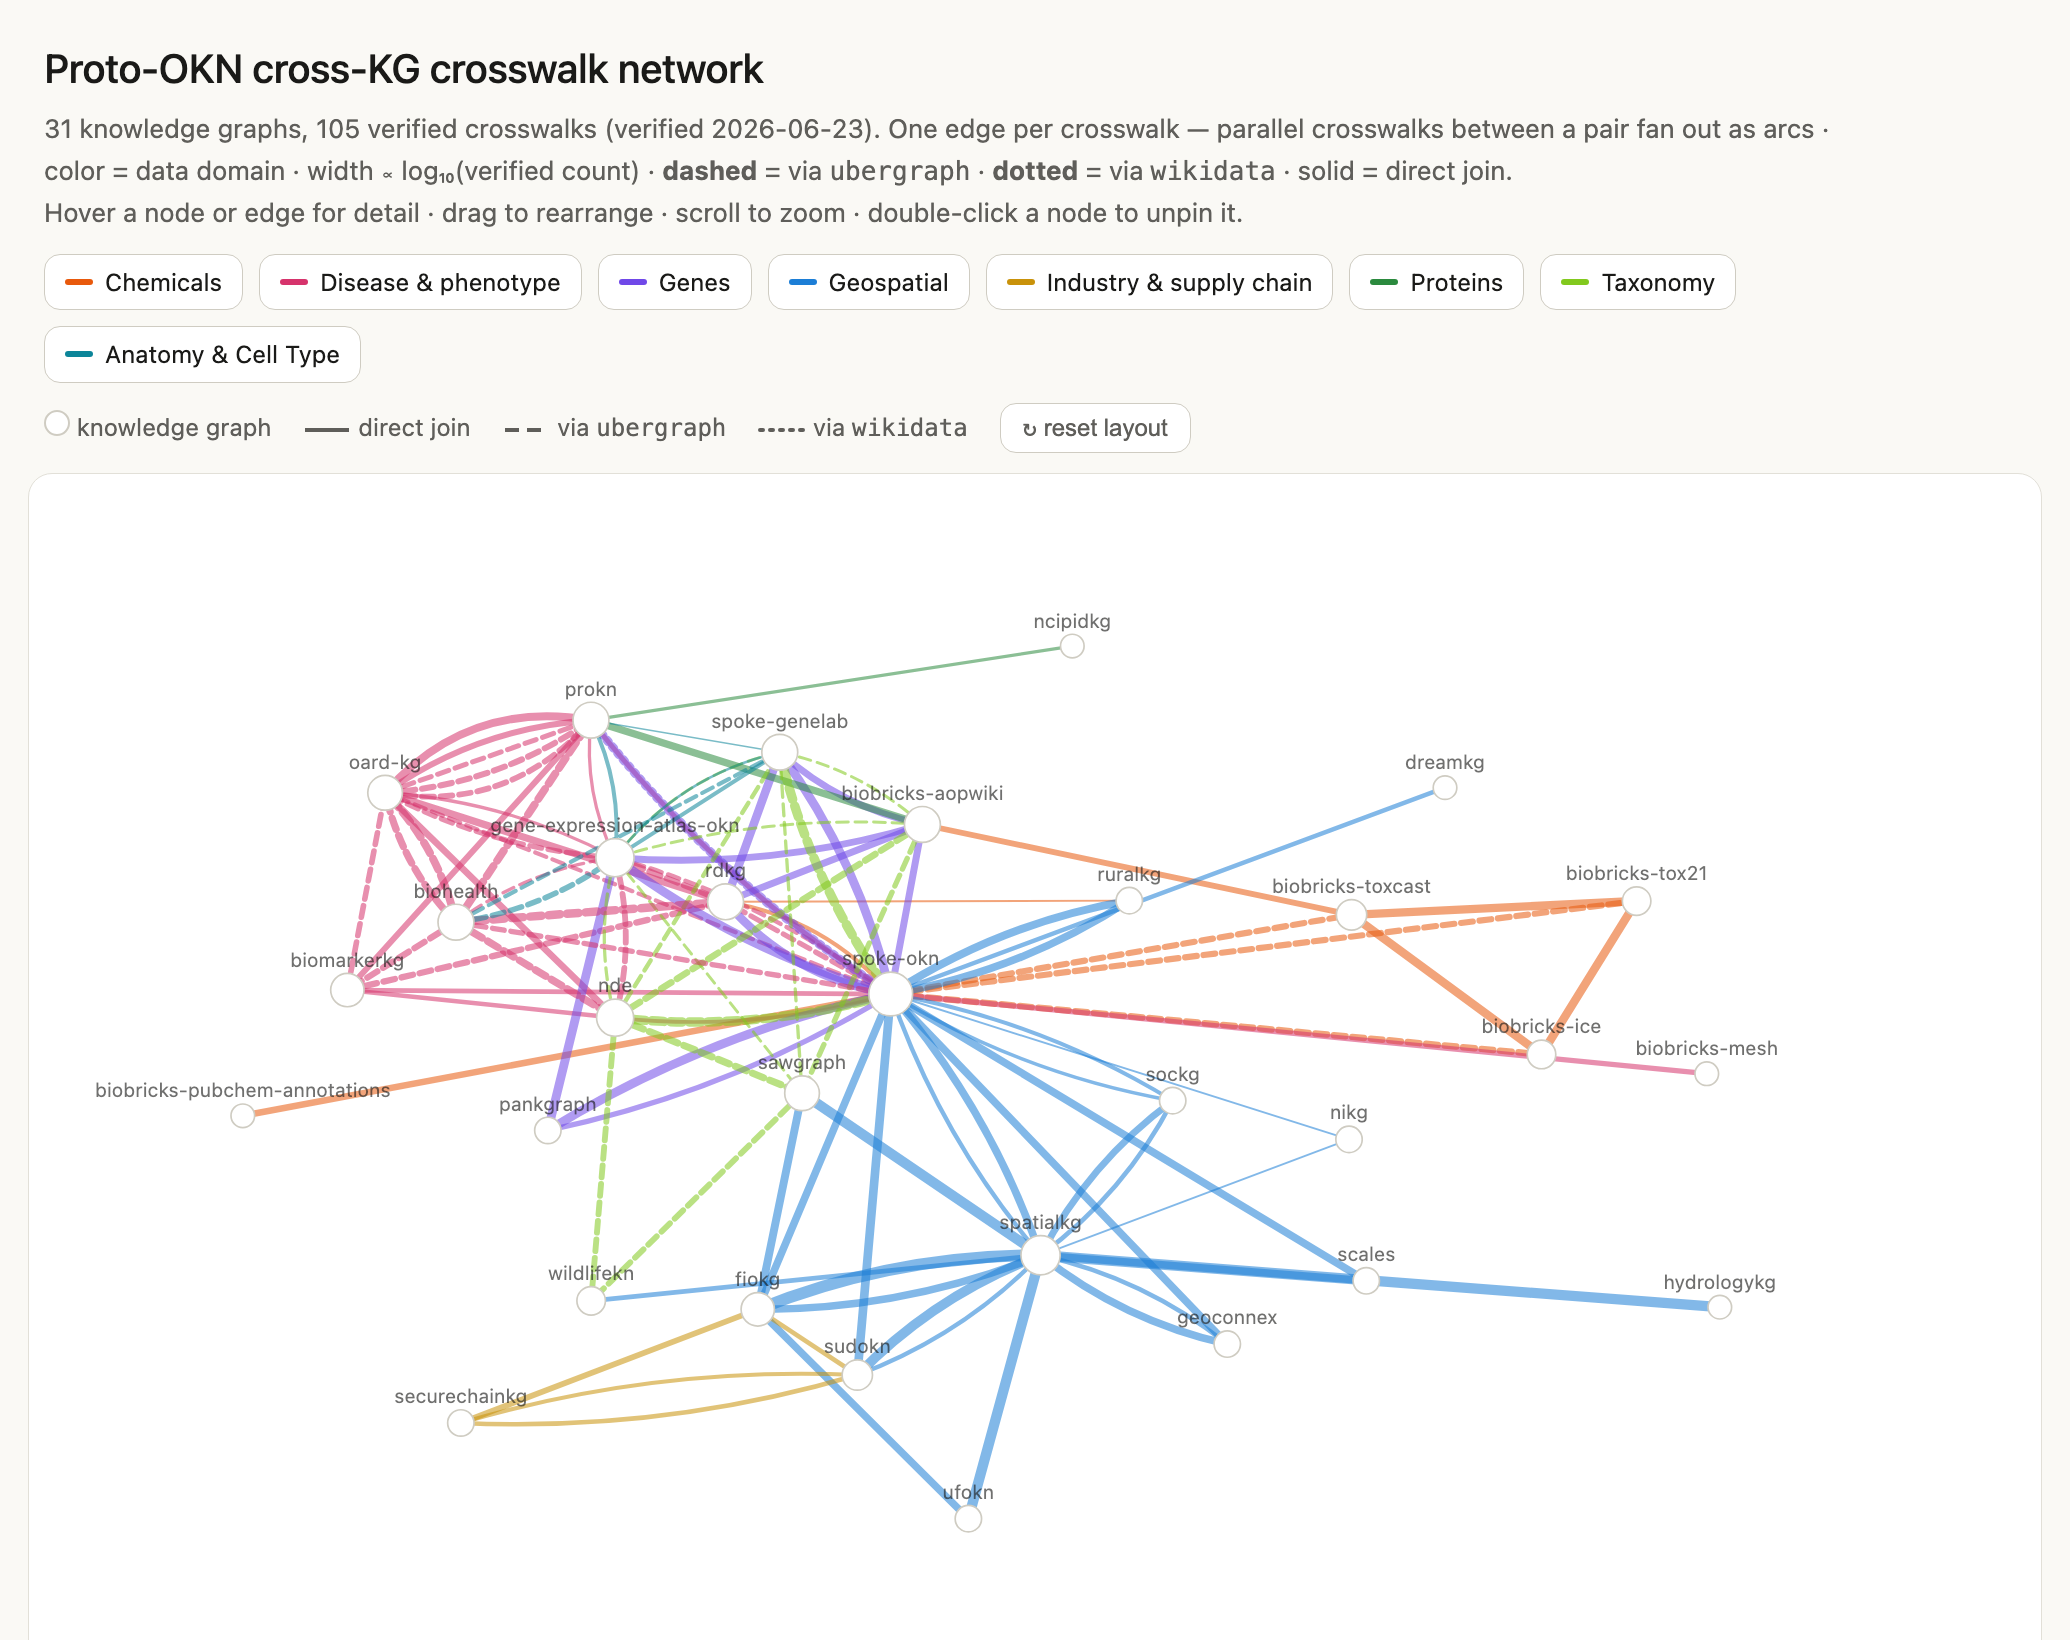
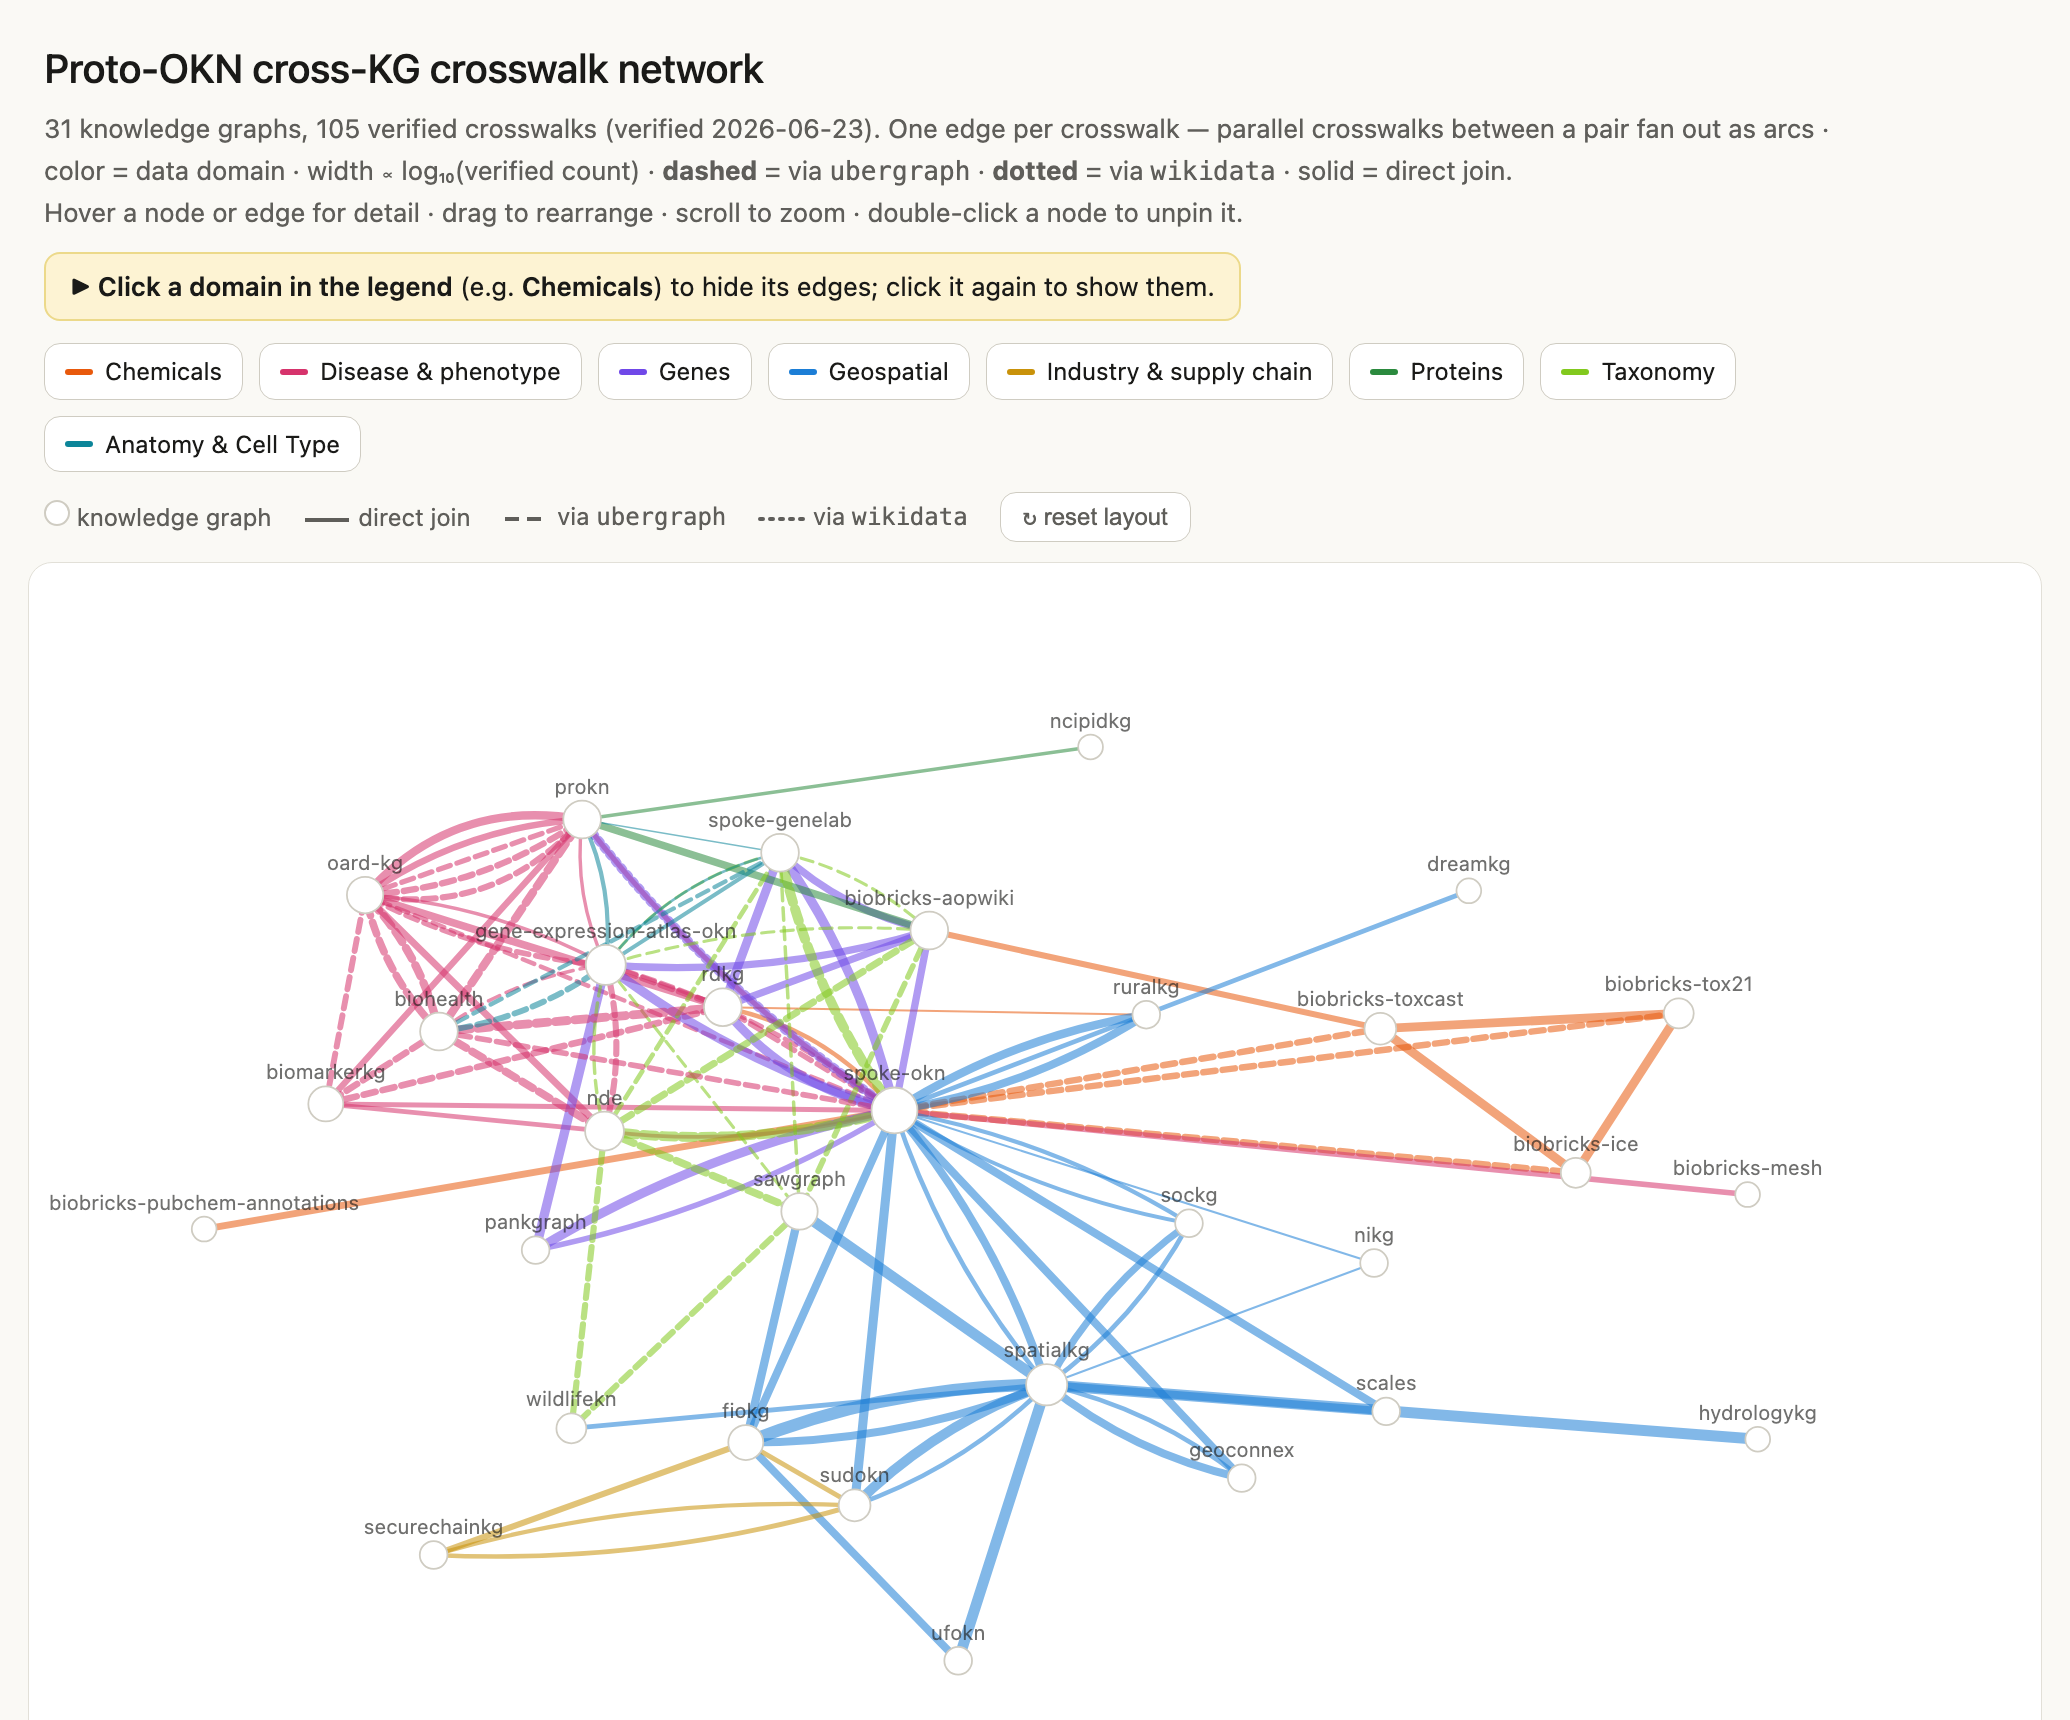
docs: add highlighted legend-toggle tip to network diagram
Add a callout explaining that clicking a domain in the legend hides/shows
its edges, styled as a highlighted (theme-aware) box so it stands out from
the muted subtitle. Regenerate the PNG.

diff --git a/docs/crosswalks/crosswalk-network.html b/docs/crosswalks/crosswalk-network.html
@@ -8,6 +8,7 @@
   :root{
     --bg:#faf9f5; --surface:#ffffff; --ink:#1a1a18; --muted:#5f5e5a;
     --hint:#888780; --border:#e2e0d8; --border2:#cfccc2;
+    --tip-bg:#fdf3d3; --tip-border:#ecd98a;
   }
   *{box-sizing:border-box}
   html,body{margin:0;height:100%}
@@ -15,6 +16,8 @@
   header{padding:18px 22px 10px}
   h1{font-size:20px;font-weight:500;margin:0 0 4px}
   header p{margin:0;color:var(--muted);font-size:13px;max-width:900px}
+  .tip{display:inline-block;margin:9px 0 1px;padding:6px 12px;font-size:13px;color:var(--ink);background:var(--tip-bg);border:1px solid var(--tip-border);border-radius:8px}
+  .tip b{font-weight:600}
   .bar{display:flex;flex-wrap:wrap;gap:8px;align-items:center;padding:0 22px 10px}
   .chip{cursor:pointer;display:inline-flex;align-items:center;gap:6px;font-size:12px;padding:4px 10px;border-radius:8px;border:0.5px solid var(--border2);background:var(--surface);user-select:none}
   .chip.off{opacity:0.32}
@@ -30,7 +33,7 @@
   #tip b{font-weight:600}
   footer{padding:4px 22px 22px;color:var(--hint);font-size:12px}
   @media (prefers-color-scheme: dark){
-    :root{--bg:#1f1e1c;--surface:#272622;--ink:#ece9e2;--muted:#a8a59c;--hint:#7d7a72;--border:#3a3833;--border2:#4a463f}
+    :root{--bg:#1f1e1c;--surface:#272622;--ink:#ece9e2;--muted:#a8a59c;--hint:#7d7a72;--border:#3a3833;--border2:#4a463f;--tip-bg:#39331d;--tip-border:#574a26}
     #tip{box-shadow:0 2px 12px rgba(0,0,0,.4)}
   }
 </style>
@@ -39,6 +42,7 @@
 <header>
   <h1>Proto-OKN cross-KG crosswalk network</h1>
   <p>31 knowledge graphs, 105 verified crosswalks (verified 2026-06-23). One edge per crosswalk &mdash; parallel crosswalks between a pair fan out as arcs · color = data domain · width &#8733; log&#8321;&#8320;(verified count) · <b>dashed</b> = via <code>ubergraph</code> · <b>dotted</b> = via <code>wikidata</code> · solid = direct join.<br>Hover a node or edge for detail · drag to rearrange · scroll to zoom · double-click a node to unpin it.</p>
+  <p class="tip">&#9654; <b>Click a domain in the legend</b> (e.g. <b>Chemicals</b>) to hide its edges; click it again to show them.</p>
 </header>
 <div class="bar" id="legend"></div>
 <div class="bar">
